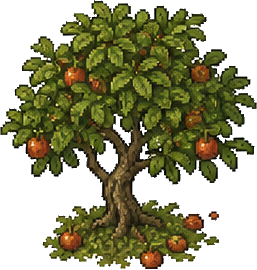
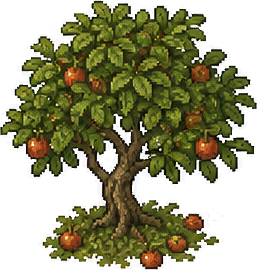
Árboles: cortar limpio (des-matte de fondo blanco) + menos densos
El recorte anterior dejaba una orla blanquecina (el AA contra el fondo
blanco del pliego). Rehecho con DES-MATTE real: se estima la cobertura por
píxel (obs = a·F + (1-a)·blanco), se recupera el color de follaje y se
saca el alpha correcto → borde limpio incluso sobre fondo negro. Quitada
la mota suelta del sauce.

Densidad de árbol bajada (pick 0.32→0.20) para que no sature. Bump
SPRITE_VER 55→56.

diff --git a/assets/js/hac-iso.js b/assets/js/hac-iso.js
@@ -22,7 +22,7 @@ const HacIso = (function () {
   const TOP_MARGIN = 132;             // hueco arriba para edificios altos, murallas y torres
   const PAD_X = 40;                   // margen lateral para murallas y paseo de ronda
   const SPRITE_BASE = 'assets/img/iso/';
-  const SPRITE_VER = '55';  // súbelo al regenerar los PNG (cache-busting)
+  const SPRITE_VER = '56';  // súbelo al regenerar los PNG (cache-busting)
 
   // ── Color helpers (para el placeholder) ─────────────────────────────────
   const { hexToRgb, clamp255: cl } = HacUtil;
@@ -388,7 +388,7 @@ const HacIso = (function () {
       const pick = hash(gx * 2.7 + 5, gy * 3.1 + 8), vv = (hash(gx * 1.9 + 2, gy * 2.3 + 7) * 99) | 0;
       // ÁRBOLES a mano (verano): reemplazan a los procedurales. Menos frecuentes que
       // antes (son grandes → que no sature) — el resto son matas/rocas bajas.
-      if (hasImgTrees && pick < 0.32) return { img: pickTree(gx, gy), sh: 12, scale: 0.46, tree: true };
+      if (hasImgTrees && pick < 0.20) return { img: pickTree(gx, gy), sh: 12, scale: 0.46, tree: true };
       if (FLORA && !hasImgTrees && pick < 0.5) { const sp = HacFlora.SPECIES[(hash(gx * 5.1 + 3, gy * 4.7 + 6) * HacFlora.SPECIES.length) | 0]; return { cv: FLORA.tree(sp, seasonKey, vv), sh: 13 }; }
       if (imgPlants.length) { const k = imgPlants[(hash(gx * 4.9 + 6, gy * 3.7 + 2) * imgPlants.length) | 0]; return { img: PLANTS[k], sh: k === 'rock' || k === 'bushrock' ? 8 : 6 }; }
       if (!FLORA) return { blob: true, sh: 9 };
